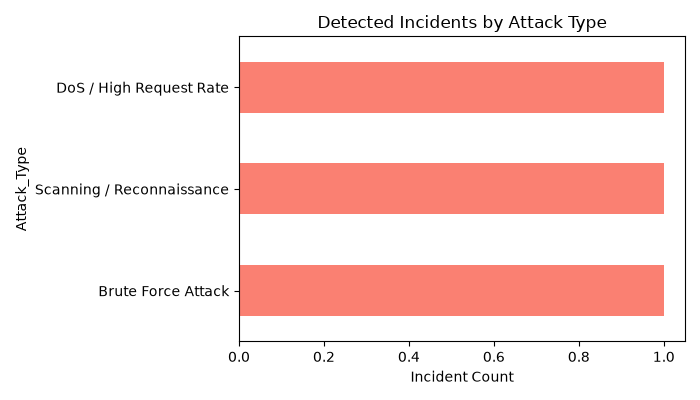
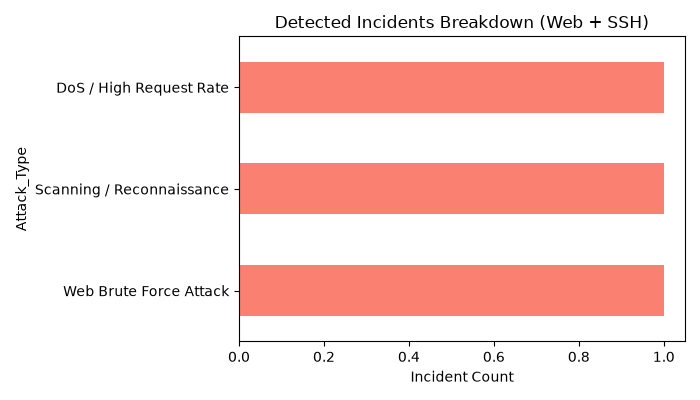
Add files via upload

Changed region(s): [[0.39, 0.03, 0.93, 0.09], [0.09, 0.72, 0.15, 0.75]]

diff --git a/log_analyzer.py b/log_analyzer.py
@@ -2,14 +2,15 @@ import re
 import pandas as pd
 import matplotlib.pyplot as plt
 
-# Threat Intelligence Blacklist Feed (Lab Mock Feed)
+# Threat Intelligence Blacklist Feed
 KNOWN_THREAT_DATABASE = {
-    '10.0.0.50': 'Known Brute Force Scanner (AbuseIPDB Threat Score: 85%)',
+    '10.0.0.50': 'Known Brute Force Scanner (AbuseIPDB Score: 85%)',
     '10.0.0.88': 'Known Web Directory Crawler / Recon Host',
-    '10.0.0.99': 'High-Volume Traffic Generator / Botnet Node'
+    '10.0.0.99': 'High-Volume Traffic Generator / Botnet Node',
+    '203.0.113.5': 'SSH Brute-Force Botnet Node'
 }
 
-# 1. Apache Log Parser
+# 1. Apache Web Log Parser
 def parse_apache_log(file_path):
     log_pattern = r'^(\S+) \S+ \S+ \[([^\]]+)\] "(\S+) (\S+) \S+" (\d{3}) (\d+|-)'
     parsed_records = []
@@ -26,96 +27,133 @@ def parse_apache_log(file_path):
                         'method': method,
                         'endpoint': endpoint,
                         'status': int(status),
-                        'size': int(size) if size != '-' else 0
+                        'size': int(size) if size != '-' else 0,
+                        'log_type': 'Apache Web'
                     })
         return pd.DataFrame(parsed_records)
     except FileNotFoundError:
-        print(f"[ERROR] File not found at path: {file_path}")
+        print(f"[ERROR] Web log file not found at: {file_path}")
         return pd.DataFrame()
 
-# 2. Threat Intelligence Cross-Reference Function
+# 2. SSH Authentication Log Parser
+def parse_ssh_log(file_path):
+    # Regex to capture SSH Failed/Accepted password events
+    ssh_pattern = r'^(\w+\s+\d+\s+[\d:]+)\s+\S+\s+sshd\[\d+\]:\s+(Failed|Accepted)\s+password\s+for\s+(\S+)\s+from\s+(\S+)'
+    parsed_records = []
+    
+    try:
+        with open(file_path, 'r') as file:
+            for line in file:
+                match = re.search(ssh_pattern, line)
+                if match:
+                    timestamp, auth_status, user, ip = match.groups()
+                    parsed_records.append({
+                        'ip': ip,
+                        'timestamp': timestamp,
+                        'user': user,
+                        'status': 401 if auth_status == 'Failed' else 200,
+                        'endpoint': 'SSH Service',
+                        'log_type': 'SSH Auth'
+                    })
+        return pd.DataFrame(parsed_records)
+    except FileNotFoundError:
+        print(f"[ERROR] SSH log file not found at: {file_path}")
+        return pd.DataFrame()
+
+# 3. Threat Intelligence Cross-Reference
 def check_threat_intel(ip_address):
     if ip_address in KNOWN_THREAT_DATABASE:
         return True, KNOWN_THREAT_DATABASE[ip_address]
     return False, "Not flagged in threat feed"
 
-# 3. Threat Detection Logic
-def detect_threats(df):
+# 4. Threat Detection Logic (Web + SSH)
+def detect_threats(web_df, ssh_df):
     incidents = []
-    if df.empty:
-        return pd.DataFrame(incidents)
+    
+    # Web Brute Force Detection
+    if not web_df.empty:
+        failed_logins = web_df[(web_df['status'] == 401) & (web_df['endpoint'].str.contains('/login', case=False, na=False))]
+        bf_counts = failed_logins['ip'].value_counts()
+        for ip, count in bf_counts.items():
+            if count >= 5:
+                is_blacklisted, intel_msg = check_threat_intel(ip)
+                incidents.append({
+                    'IP': ip,
+                    'Attack_Type': 'Web Brute Force Attack',
+                    'Severity': 'HIGH',
+                    'Reason': f'Detected {count} failed web login attempts',
+                    'Endpoint': '/login',
+                    'Threat_Intel_Matched': is_blacklisted,
+                    'Threat_Intel_Details': intel_msg
+                })
 
-    # Rule A: Brute Force Detection
-    failed_logins = df[(df['status'] == 401) & (df['endpoint'].str.contains('/login', case=False, na=False))]
-    bf_counts = failed_logins['ip'].value_counts()
-    for ip, count in bf_counts.items():
-        if count >= 5:
-            is_blacklisted, intel_msg = check_threat_intel(ip)
-            incidents.append({
-                'IP': ip,
-                'Attack_Type': 'Brute Force Attack',
-                'Severity': 'HIGH',
-                'Reason': f'Detected {count} failed login attempts (HTTP 401)',
-                'Endpoint': '/login',
-                'Status': 401,
-                'Threat_Intel_Matched': is_blacklisted,
-                'Threat_Intel_Details': intel_msg
-            })
+        # Web Scanning Detection
+        sensitive_endpoints = ['/admin', '/wp-admin', '/phpmyadmin', '/.env', '/config.php']
+        scans = web_df[web_df['endpoint'].isin(sensitive_endpoints)]
+        scan_counts = scans['ip'].value_counts()
+        for ip, count in scan_counts.items():
+            if count >= 2:
+                scanned_paths = scans[scans['ip'] == ip]['endpoint'].unique()
+                is_blacklisted, intel_msg = check_threat_intel(ip)
+                incidents.append({
+                    'IP': ip,
+                    'Attack_Type': 'Scanning / Reconnaissance',
+                    'Severity': 'MEDIUM',
+                    'Reason': f'Accessing sensitive paths: {list(scanned_paths)}',
+                    'Endpoint': ', '.join(scanned_paths),
+                    'Threat_Intel_Matched': is_blacklisted,
+                    'Threat_Intel_Details': intel_msg
+                })
 
-    # Rule B: Scanning Detection
-    sensitive_endpoints = ['/admin', '/wp-admin', '/phpmyadmin', '/.env', '/config.php', '/server-status']
-    scans = df[df['endpoint'].isin(sensitive_endpoints)]
-    scan_counts = scans['ip'].value_counts()
-    for ip, count in scan_counts.items():
-        if count >= 2:
-            scanned_paths = scans[scans['ip'] == ip]['endpoint'].unique()
-            is_blacklisted, intel_msg = check_threat_intel(ip)
-            incidents.append({
-                'IP': ip,
-                'Attack_Type': 'Scanning / Reconnaissance',
-                'Severity': 'MEDIUM',
-                'Reason': f'Accessing sensitive endpoints: {list(scanned_paths)}',
-                'Endpoint': ', '.join(scanned_paths),
-                'Status': '403/404',
-                'Threat_Intel_Matched': is_blacklisted,
-                'Threat_Intel_Details': intel_msg
-            })
+        # Web DoS Detection
+        ip_counts = web_df['ip'].value_counts()
+        for ip, count in ip_counts.items():
+            if count >= 10:
+                is_blacklisted, intel_msg = check_threat_intel(ip)
+                incidents.append({
+                    'IP': ip,
+                    'Attack_Type': 'DoS / High Request Rate',
+                    'Severity': 'HIGH',
+                    'Reason': f'High request volume: {count} total requests',
+                    'Endpoint': 'Multiple',
+                    'Threat_Intel_Matched': is_blacklisted,
+                    'Threat_Intel_Details': intel_msg
+                })
 
-    # Rule C: DoS / High Request Rate
-    ip_counts = df['ip'].value_counts()
-    for ip, count in ip_counts.items():
-        if count >= 10:
-            is_blacklisted, intel_msg = check_threat_intel(ip)
-            incidents.append({
-                'IP': ip,
-                'Attack_Type': 'DoS / High Request Rate',
-                'Severity': 'HIGH',
-                'Reason': f'High volume of requests generated: {count} total requests',
-                'Endpoint': 'Multiple',
-                'Status': 'Various',
-                'Threat_Intel_Matched': is_blacklisted,
-                'Threat_Intel_Details': intel_msg
-            })
+    # SSH Brute Force Detection
+    if not ssh_df.empty:
+        ssh_failed = ssh_df[ssh_df['status'] == 401]
+        ssh_bf_counts = ssh_failed['ip'].value_counts()
+        for ip, count in ssh_bf_counts.items():
+            if count >= 3:
+                is_blacklisted, intel_msg = check_threat_intel(ip)
+                incidents.append({
+                    'IP': ip,
+                    'Attack_Type': 'SSH Brute Force Attack',
+                    'Severity': 'HIGH',
+                    'Reason': f'Detected {count} failed SSH authentication attempts',
+                    'Endpoint': 'SSH (Port 22)',
+                    'Threat_Intel_Matched': is_blacklisted,
+                    'Threat_Intel_Details': intel_msg
+                })
 
     return pd.DataFrame(incidents)
 
-# 4. Visualization Generator
+# 5. Visualization Generator
 def generate_graphs(df, incidents_df):
     if df.empty:
         return
     
-    # Graph 1: Total Requests by IP
     plt.figure(figsize=(8, 4))
     ip_counts = df['ip'].value_counts()
     ip_counts.plot(kind='bar', color='skyblue')
-    plt.title('Total Requests by IP Address')
+    plt.title('Total Web Requests by IP Address')
     plt.xlabel('IP Address')
     plt.ylabel('Request Count')
     plt.tight_layout()
     plt.savefig('graphs/requests_by_ip.png')
     plt.close()
 
-    # Graph 2: HTTP Status Distribution
     plt.figure(figsize=(6, 4))
     status_counts = df['status'].value_counts()
     status_counts.plot(kind='pie', autopct='%1.1f%%', colors=['lightgreen', 'orange', 'crimson'])
@@ -125,41 +163,42 @@ def generate_graphs(df, incidents_df):
     plt.savefig('graphs/status_code_distribution.png')
     plt.close()
 
-    # Graph 3: Attack Types Breakdown
     if not incidents_df.empty:
         plt.figure(figsize=(7, 4))
         attack_counts = incidents_df['Attack_Type'].value_counts()
         attack_counts.plot(kind='barh', color='salmon')
-        plt.title('Detected Incidents by Attack Type')
+        plt.title('Detected Incidents Breakdown (Web + SSH)')
         plt.xlabel('Incident Count')
         plt.tight_layout()
         plt.savefig('graphs/attack_patterns.png')
         plt.close()
 
-# 5. Execution Pipeline
+# 6. Execution Pipeline
 if __name__ == "__main__":
-    print("=== Log File Analyzer Started ===")
+    print("=== Multi-Log Analyzer Started ===")
     
-    log_file = "data/sample_access.log"
-    df_logs = parse_apache_log(log_file)
+    # Process Web Logs
+    web_log_file = "data/sample_access.log"
+    df_web = parse_apache_log(web_log_file)
+    print(f"[SUCCESS] Parsed {len(df_web)} Web Log entries.")
     
-    if not df_logs.empty:
-        print(f"[SUCCESS] Successfully parsed {len(df_logs)} log entries.")
-        
-        # Threat Detection
-        incidents_df = detect_threats(df_logs)
-        print(f"[DETECTION] Threat detection complete. Total Incidents: {len(incidents_df)}")
-        
-        # Export CSV Incident Report
-        csv_output_path = "output/incident_report.csv"
-        incidents_df.to_csv(csv_output_path, index=False)
-        print(f"[REPORT] Incident report saved to: {csv_output_path}")
-        
-        # Generate Visualizations
-        generate_graphs(df_logs, incidents_df)
-        print("[GRAPHS] Visualizations saved inside 'graphs/' directory.")
-        
-        print("\n--- Summary of Incidents with Threat Intel ---")
-        print(incidents_df[['IP', 'Attack_Type', 'Severity', 'Threat_Intel_Matched', 'Threat_Intel_Details']])
-    else:
-        print("[WARNING] No logs parsed or file is empty.")
+    # Process SSH Logs
+    ssh_log_file = "data/sample_auth.log"
+    df_ssh = parse_ssh_log(ssh_log_file)
+    print(f"[SUCCESS] Parsed {len(df_ssh)} SSH Log entries.")
+    
+    # Threat Detection
+    incidents_df = detect_threats(df_web, df_ssh)
+    print(f"[DETECTION] Detection complete. Total Incidents Detected: {len(incidents_df)}")
+    
+    # Export CSV Report
+    csv_output_path = "output/incident_report.csv"
+    incidents_df.to_csv(csv_output_path, index=False)
+    print(f"[REPORT] Updated report saved to: {csv_output_path}")
+    
+    # Generate Visuals
+    generate_graphs(df_web, incidents_df)
+    print("[GRAPHS] Visualizations updated in 'graphs/' directory.\n")
+    
+    print("--- Summary of Combined Incidents ---")
+    print(incidents_df[['IP', 'Attack_Type', 'Severity', 'Threat_Intel_Matched']])
